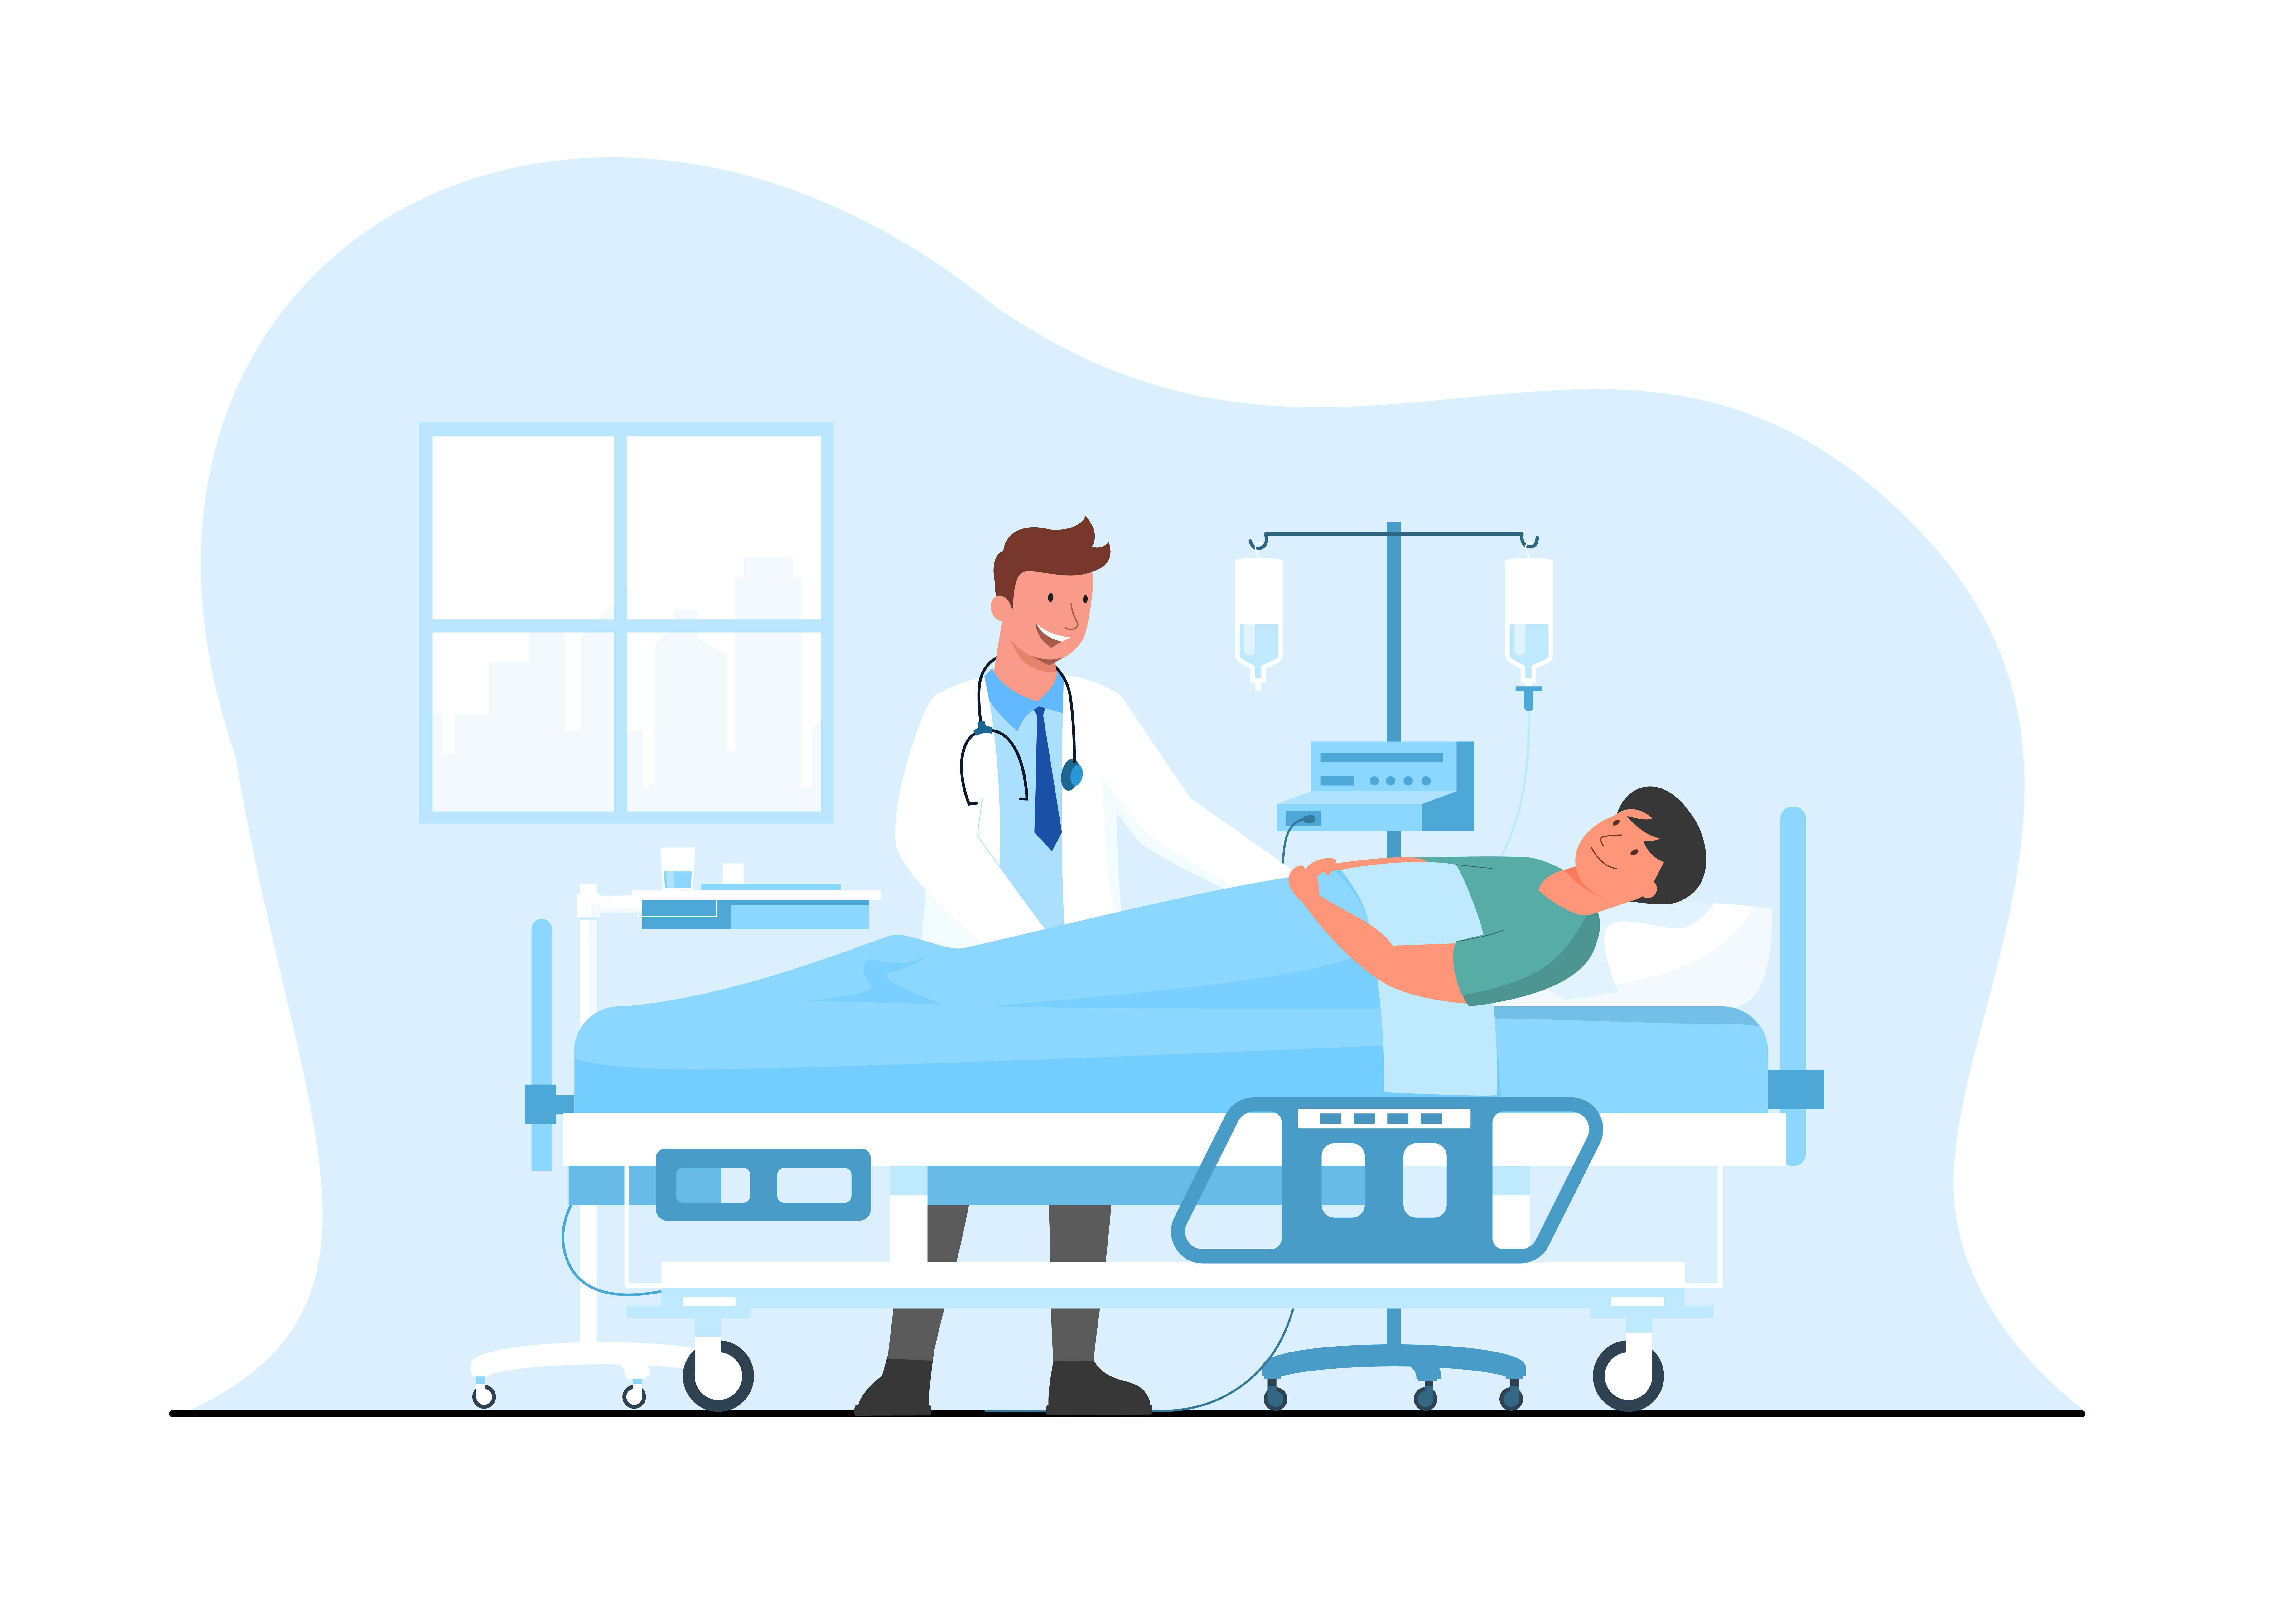
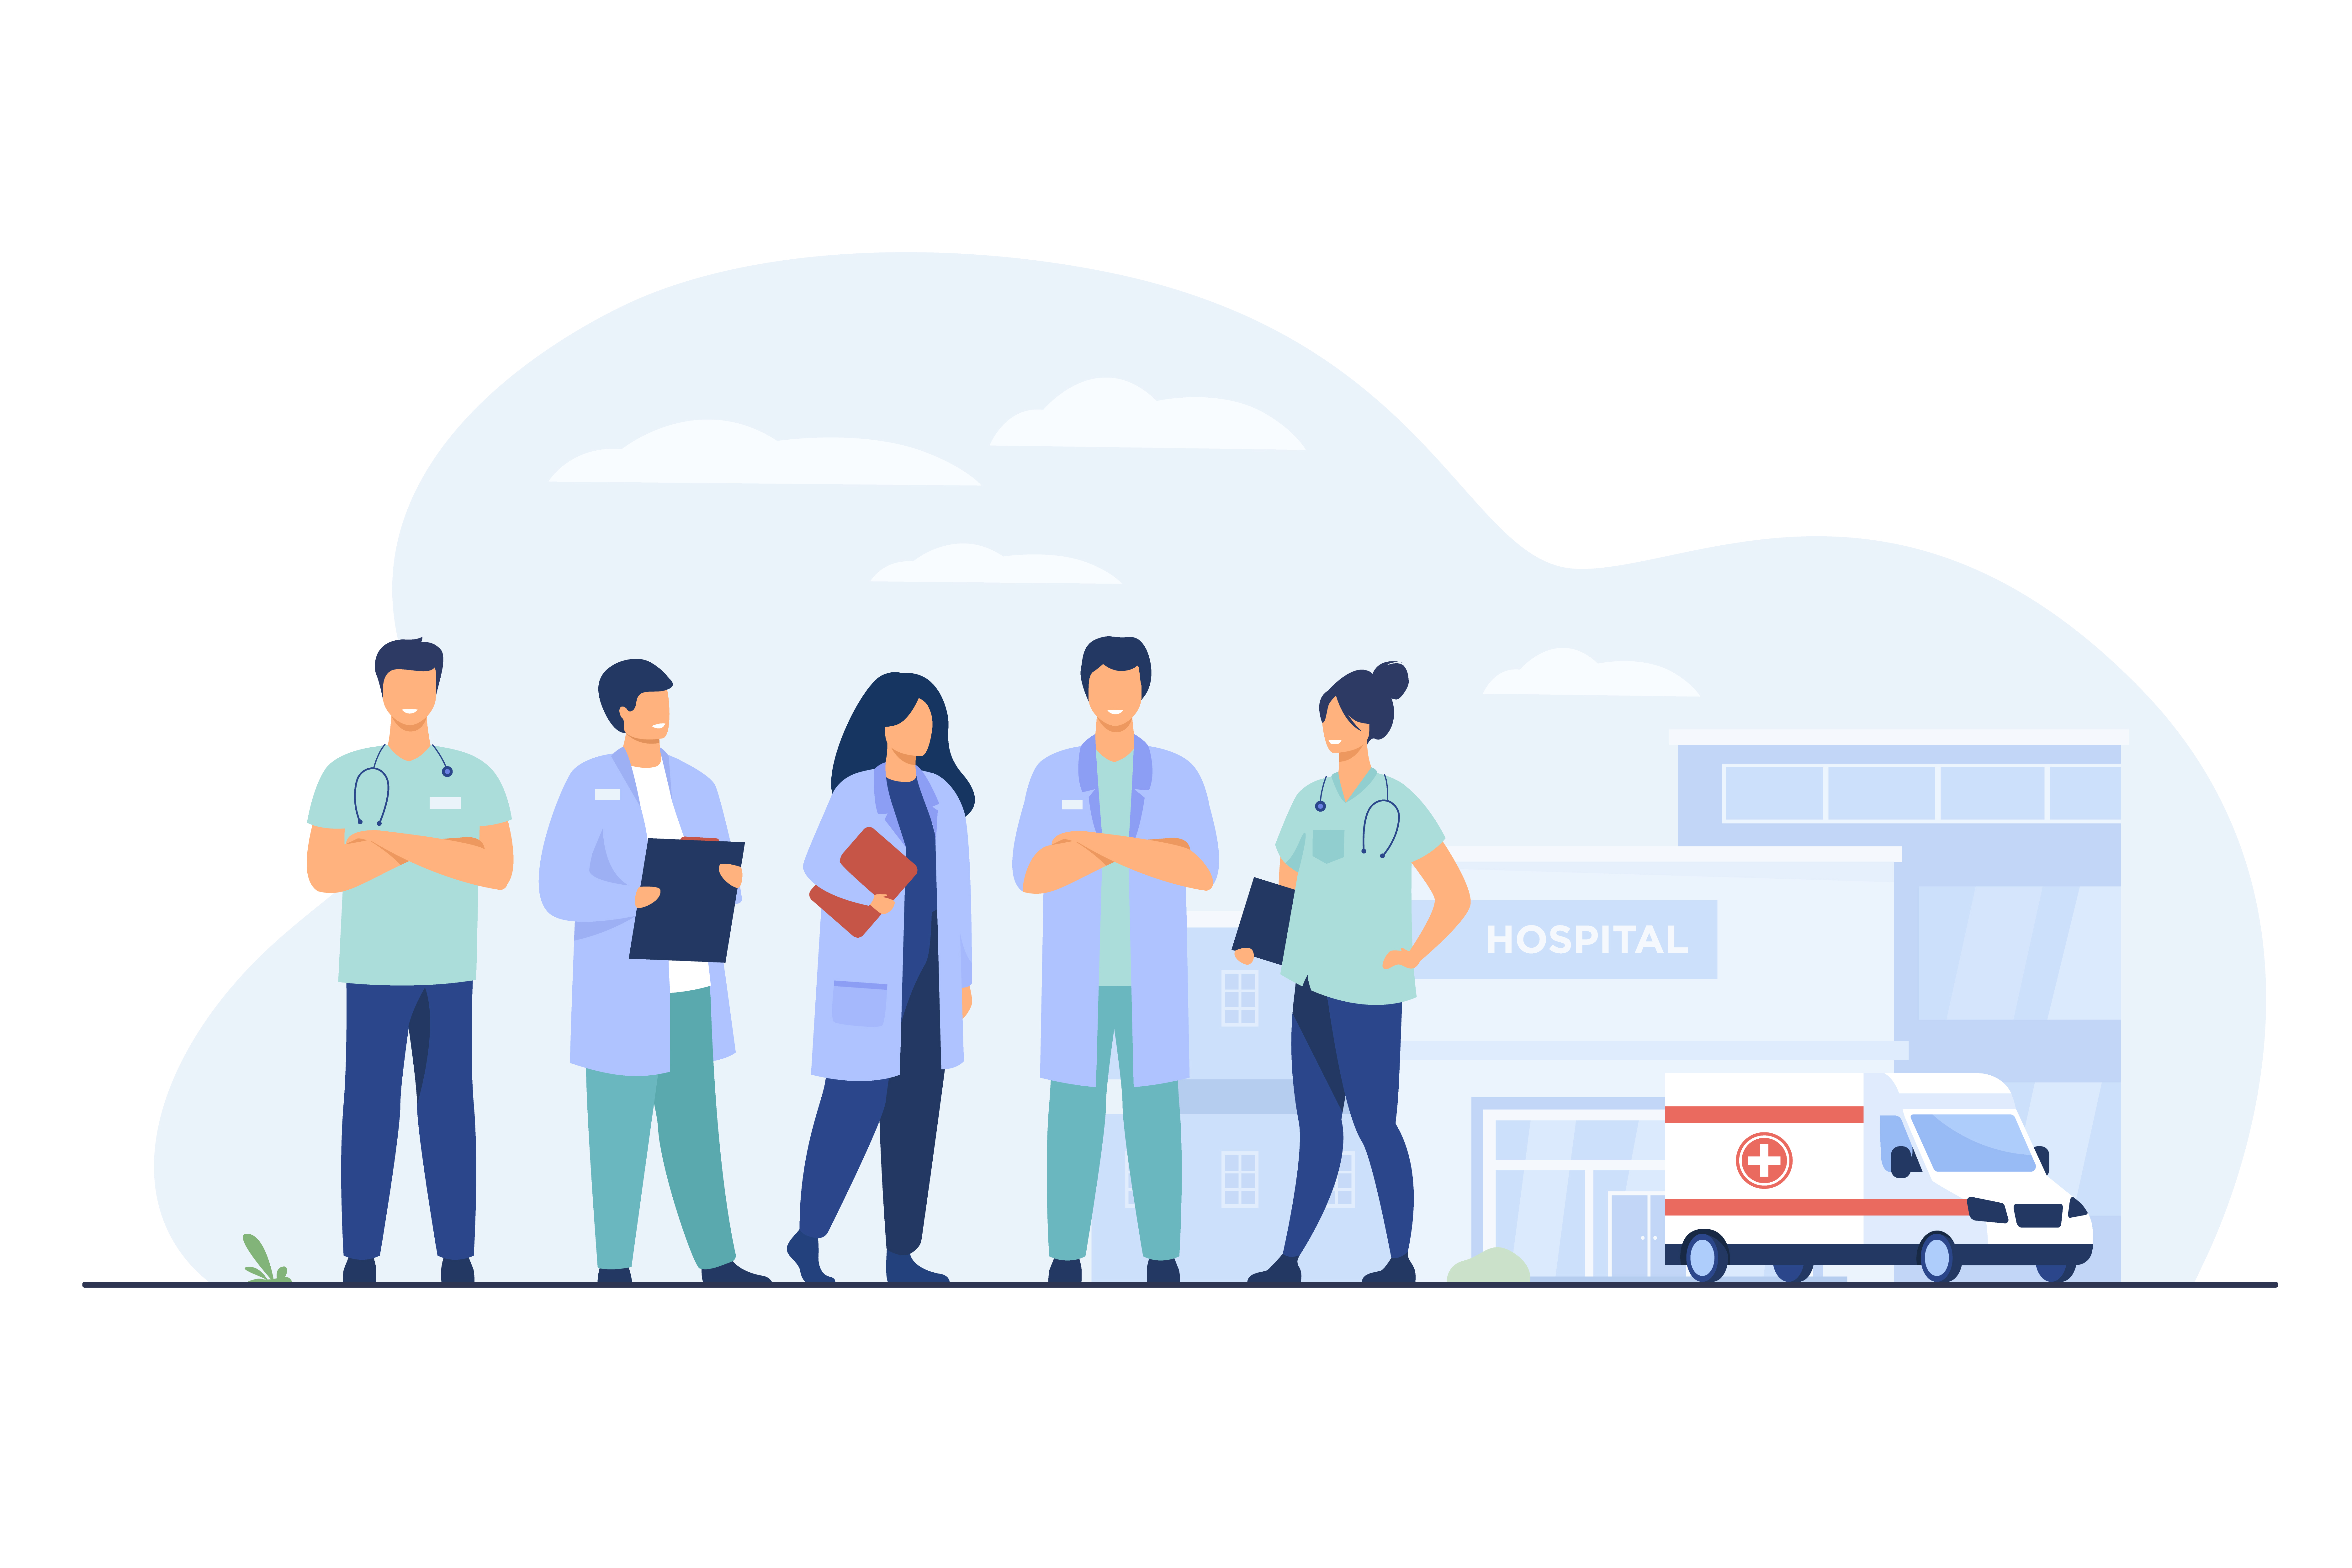
Se muestra en el sidebar el usuario que inicio sesion y una opcion para cerrar su sesion

diff --git a/public/css/main.css b/public/css/main.css
@@ -76,6 +76,31 @@ aside .nav-treeview .nav-link:hover {
     background-color: #B03A2D;
 }
 
+aside .user-panel {
+    display: flex;
+    align-items: center;
+    gap: 10px;
+    margin-bottom: 15px;
+}
+
+aside .user-panel .image img {
+    width: 50px;
+    height: 50px;
+    object-fit: cover;
+    border-radius: 50%;
+    border: 2px solid #ddd;
+}
+
+aside .user-panel .info a {
+    font-weight: bold;
+    color: #555;
+    text-decoration: none;
+}
+
+aside .user-panel .info a:hover {
+    color: blue;
+}
+
 /* Main Content */
 main {
     padding: 2rem 1rem;

diff --git a/resources/views/partials/sidebar.blade.php b/resources/views/partials/sidebar.blade.php
@@ -1,3 +1,18 @@
+<div class="user-panel">
+    <div class="image">
+        <img src="{{ asset('images/user.jpg') }}" alt="User Image">
+    </div>
+    <div class="info">
+        <a href="#" class="d-block">{{ Auth::user()->name }}</a>
+        <form action="{{ route('logout') }}" method="POST" style="display: inline;">
+            @csrf
+            <button type="submit" class="btn btn-link p-0 m-0 align-baseline" style="color: #007bff; text-decoration: none;">
+                Cerrar sesión
+            </button>
+        </form>
+    </div>
+</div>
+
 <ul class="nav flex-column">
     <li class="nav-item">
         <a class="nav-link" href="#">

diff --git a/routes/web.php b/routes/web.php
@@ -1,6 +1,7 @@
 <?php
 
 use App\Http\Controllers\ProfileController;
+use Illuminate\Support\Facades\Auth;
 use Illuminate\Support\Facades\Route;
 
 Route::get('/', function () {
@@ -16,5 +17,10 @@ Route::middleware('auth')->group(function () {
     Route::patch('/profile', [ProfileController::class, 'update'])->name('profile.update');
     Route::delete('/profile', [ProfileController::class, 'destroy'])->name('profile.destroy');
 });
+
+Route::post('/logout', function () {
+    Auth::logout(); // Cierra la sesión del usuario
+    return redirect('/'); // Redirige a la página de bienvenida
+})->name('logout');
 
 require __DIR__.'/auth.php';

diff --git a/resources/views/welcome.blade.php b/resources/views/welcome.blade.php
@@ -15,7 +15,6 @@
     <header>
         <nav class="navbar navbar-expand-lg navbar-light">
             <div class="container-fluid">
-                <a class="navbar-brand" href="{{ url('/') }}">Cruz Roja</a>
                 <button class="navbar-toggler" type="button" data-bs-toggle="collapse" data-bs-target="#navbarNav" aria-controls="navbarNav" aria-expanded="false" aria-label="Toggle navigation">
                     <span class="navbar-toggler-icon"></span>
                 </button>